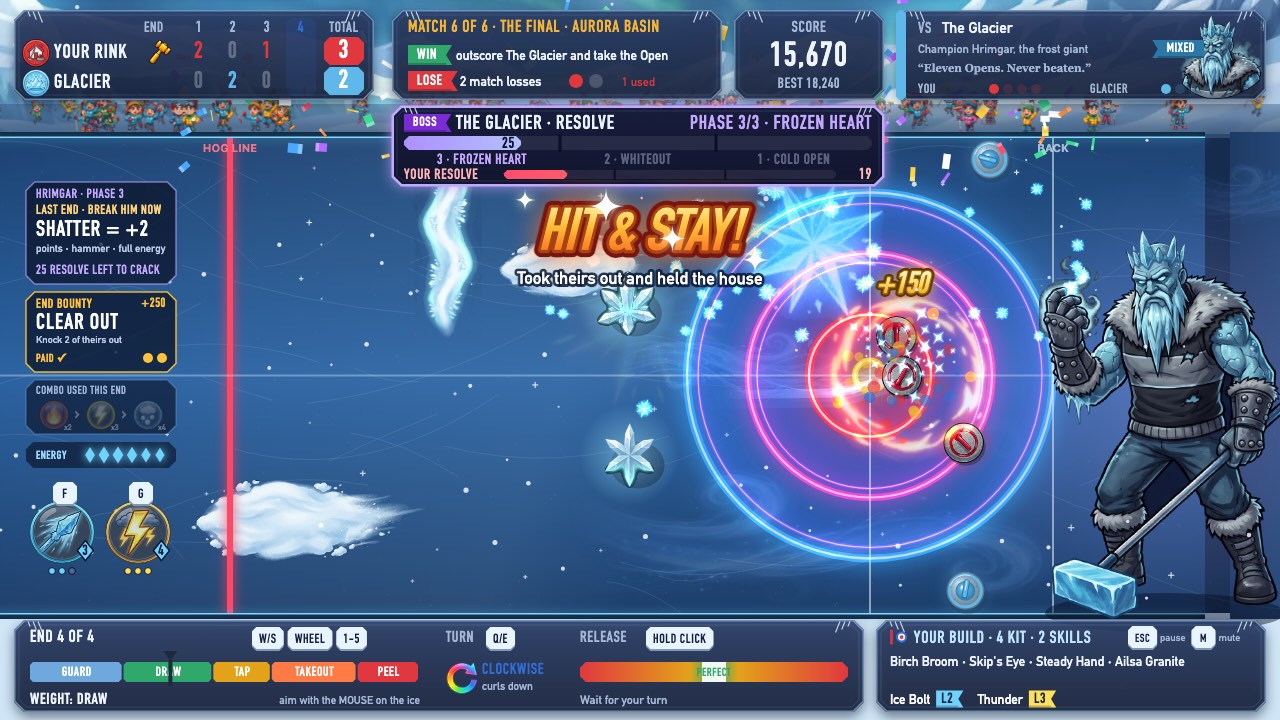
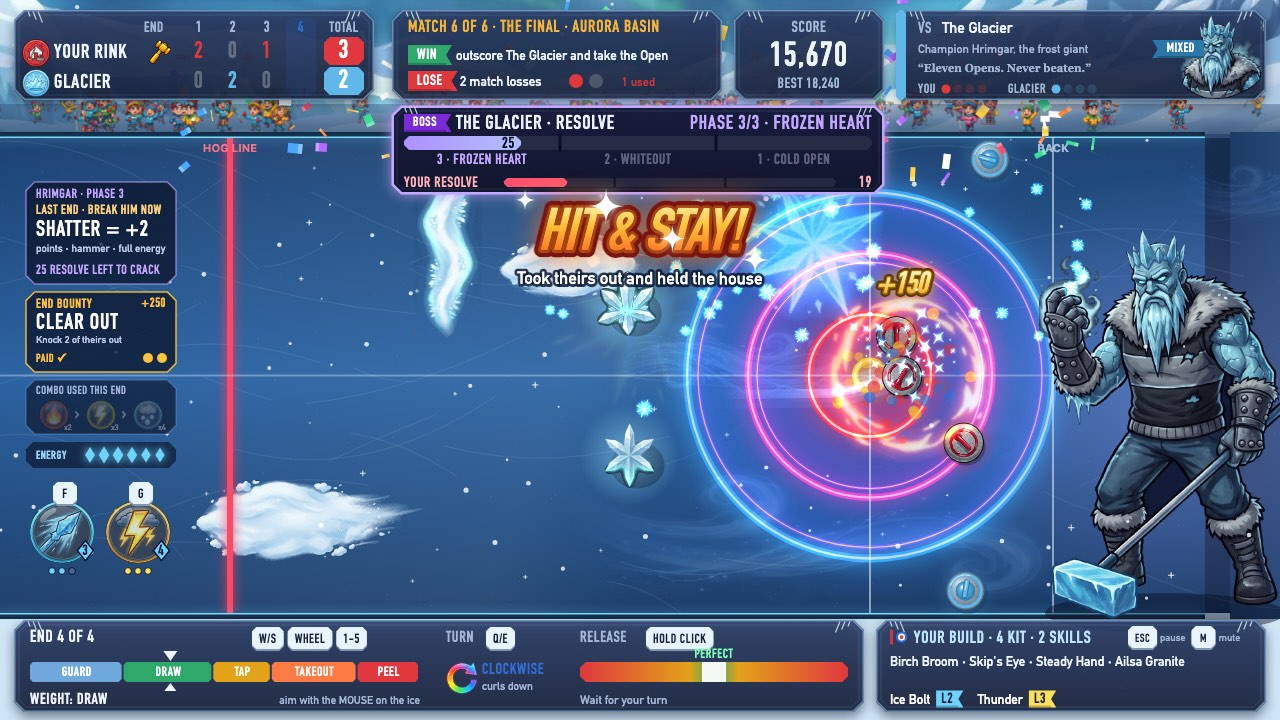
HUD text kept clear of its bars: weight needle as arrows above and below the zone names, PERFECT label above the release bar, rival stone pips left of the portrait, taller boss bar so phase names don't sit on Your Resolve, and a no-kit line in the build panel

diff --git a/game/src/render/hud.js b/game/src/render/hud.js
@@ -124,7 +124,7 @@ function drawScoreboard(ctx, m) {
 // The final's boss bar, hung under the top panels: The Glacier's RESOLVE, split into his three phases.
 function drawBossBar(ctx, m, time) {
   const b = m.boss;
-  const x = 392, y = 106, w = 492, h = 80;
+  const x = 392, y = 106, w = 492, h = 88;
   const col = b.cracked ? '#9fb4d8' : ['#5fb7ea', '#b8f0ff', '#c4a8ff'][b.phase - 1];
   panel(ctx, x, y, w, h, { radius: 12, glow: b.cracked ? undefined : col, fillTop: 'rgba(16,22,52,0.95)', fill: 'rgba(10,14,36,0.95)' });
   chip(ctx, 'BOSS', x + 12, y + 17, { fill: '#7a2bd6', size: 10, h: 18 });
@@ -175,7 +175,7 @@ function drawBossBar(ctx, m, time) {
   }
   // Your own Resolve, chipped by his points and good shots by the same rules (boss.js hurtPlayer).
   {
-    const ny = y + 64, nx = x + 112, nw = w - 160, nf = b.nerve / 100;
+    const ny = y + 72, nx = x + 112, nw = w - 160, nf = b.nerve / 100;
     text(ctx, 'YOUR RESOLVE', x + 12, ny + 9, { size: 11, weight: 900, color: b.broken ? PALETTE.bad : '#ffb3b8' });
     roundRect(ctx, nx, ny, nw, 9, 4.5);
     ctx.fillStyle = 'rgba(255,255,255,0.08)';
@@ -269,19 +269,21 @@ function drawRivalCard(ctx, m) {
   else drawSprite(ctx, portraitFor(r), x + w - 30, 99, 88);
   chip(ctx, r.style.toUpperCase(), x + w - 62, 49, { align: 'right', fill: r.dark, size: 10, h: 18 });
   text(ctx, `“${r.motto}”`, x + 22, 72, { size: 11, weight: 600, color: PALETTE.inkSoft, font: 'Georgia, serif' });
-  // Stones left for each side.
+  // Stones left for each side, kept left of the portrait.
+  let rowX = 0;
   ['player', 'rival'].forEach((team, i) => {
     const left = stonesLeft(m, team);
     const cols = teamColours(team, m.rival);
-    const bx = x + 22 + i * 172;
-    text(ctx, team === 'player' ? 'YOU' : r.short, bx, 93, { size: 10, weight: 900, color: PALETTE.inkSoft });
+    const bx = i === 0 ? x + 22 : rowX;
+    const lw = text(ctx, team === 'player' ? 'YOU' : r.short, bx, 93, { size: 10, weight: 900, color: PALETTE.inkSoft });
     for (let k = 0; k < m.stonesPerTeam; k++) {
       ctx.globalAlpha = k < left ? 1 : 0.18;
       ctx.fillStyle = cols[0];
       ctx.beginPath();
-      ctx.arc(bx + 76 + k * 14, 89, 5, 0, TAU);
+      ctx.arc(bx + lw + 10 + k * 12, 89, 4.5, 0, TAU);
       ctx.fill();
     }
+    rowX = bx + lw + 10 + m.stonesPerTeam * 12 + 14;
     ctx.globalAlpha = 1;
   });
 }
@@ -316,14 +318,20 @@ function drawShotPanel(ctx, scene, time) {
     prev = z.upTo;
   });
   const wx = sx0 + scene.aim.weight * sw;
-  ctx.fillStyle = PALETTE.ink;
+  ctx.fillStyle = PALETTE.text;
   ctx.beginPath();
   ctx.moveTo(wx, sy0 - 1);
   ctx.lineTo(wx - 7, sy0 - 11);
   ctx.lineTo(wx + 7, sy0 - 11);
   ctx.closePath();
   ctx.fill();
-  ctx.fillRect(wx - 2, sy0 - 2, 4, 26);
+  // A notch below the bar too, so the needle never covers the zone's name.
+  ctx.beginPath();
+  ctx.moveTo(wx, sy0 + 21);
+  ctx.lineTo(wx - 6, sy0 + 29);
+  ctx.lineTo(wx + 6, sy0 + 29);
+  ctx.closePath();
+  ctx.fill();
   let hx = sx0 + sw - 168;
   hx += keycap(ctx, 'W/S', hx, BOTTOM + 23, { size: 10 }) + 4;
   hx += keycap(ctx, 'WHEEL', hx, BOTTOM + 23, { size: 10 }) + 4;
@@ -401,7 +409,7 @@ function drawShotPanel(ctx, scene, time) {
     ctx.fill();
     ctx.fillStyle = 'rgba(255,255,255,0.92)';
     ctx.fillRect(nx + cw / 2 - (zone * cw) / 2, BOTTOM + 42, zone * cw, 20);
-    text(ctx, 'PERFECT', nx + cw / 2, BOTTOM + 56, { size: 9, weight: 900, align: 'center', color: PALETTE.good });
+    text(ctx, 'PERFECT', nx + cw / 2, BOTTOM + 38, { size: 10, weight: 900, align: 'center', color: '#7dffb4' });
     if (scene.charging) {
       const p = nx + cw / 2 + (scene.needle * cw) / 2;
       ctx.fillStyle = PALETTE.ink;
@@ -430,6 +438,7 @@ function drawBuild(ctx, scene) {
     text(ctx, 'Kit picks and skills from the clubhouse show here.', x + 14, y + 56, { size: 12, color: PALETTE.inkSoft });
     return;
   }
+  if (!items.length) text(ctx, 'No kit yet: win a match to pick one.', x + 14, y + 50, { size: 12, color: PALETTE.inkSoft });
   // Kit names, flowed into at most two lines.
   const names = items.map(({ item, count }) => item.name + (count > 1 ? ` x${count}` : ''));
   const maxW = w - 28;
